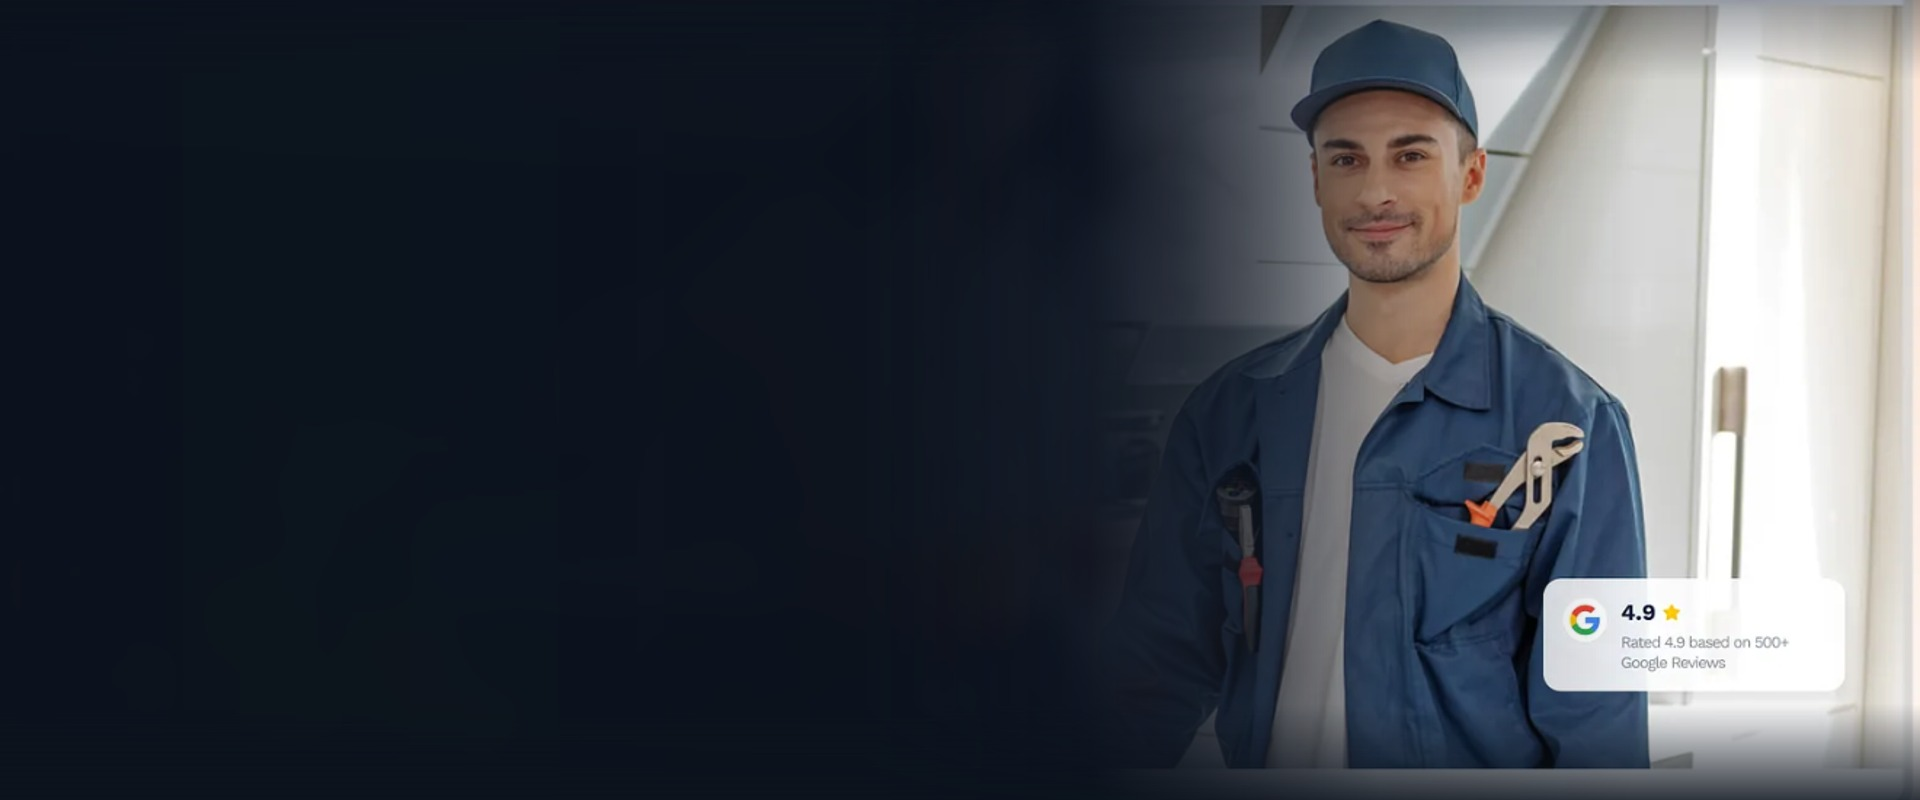
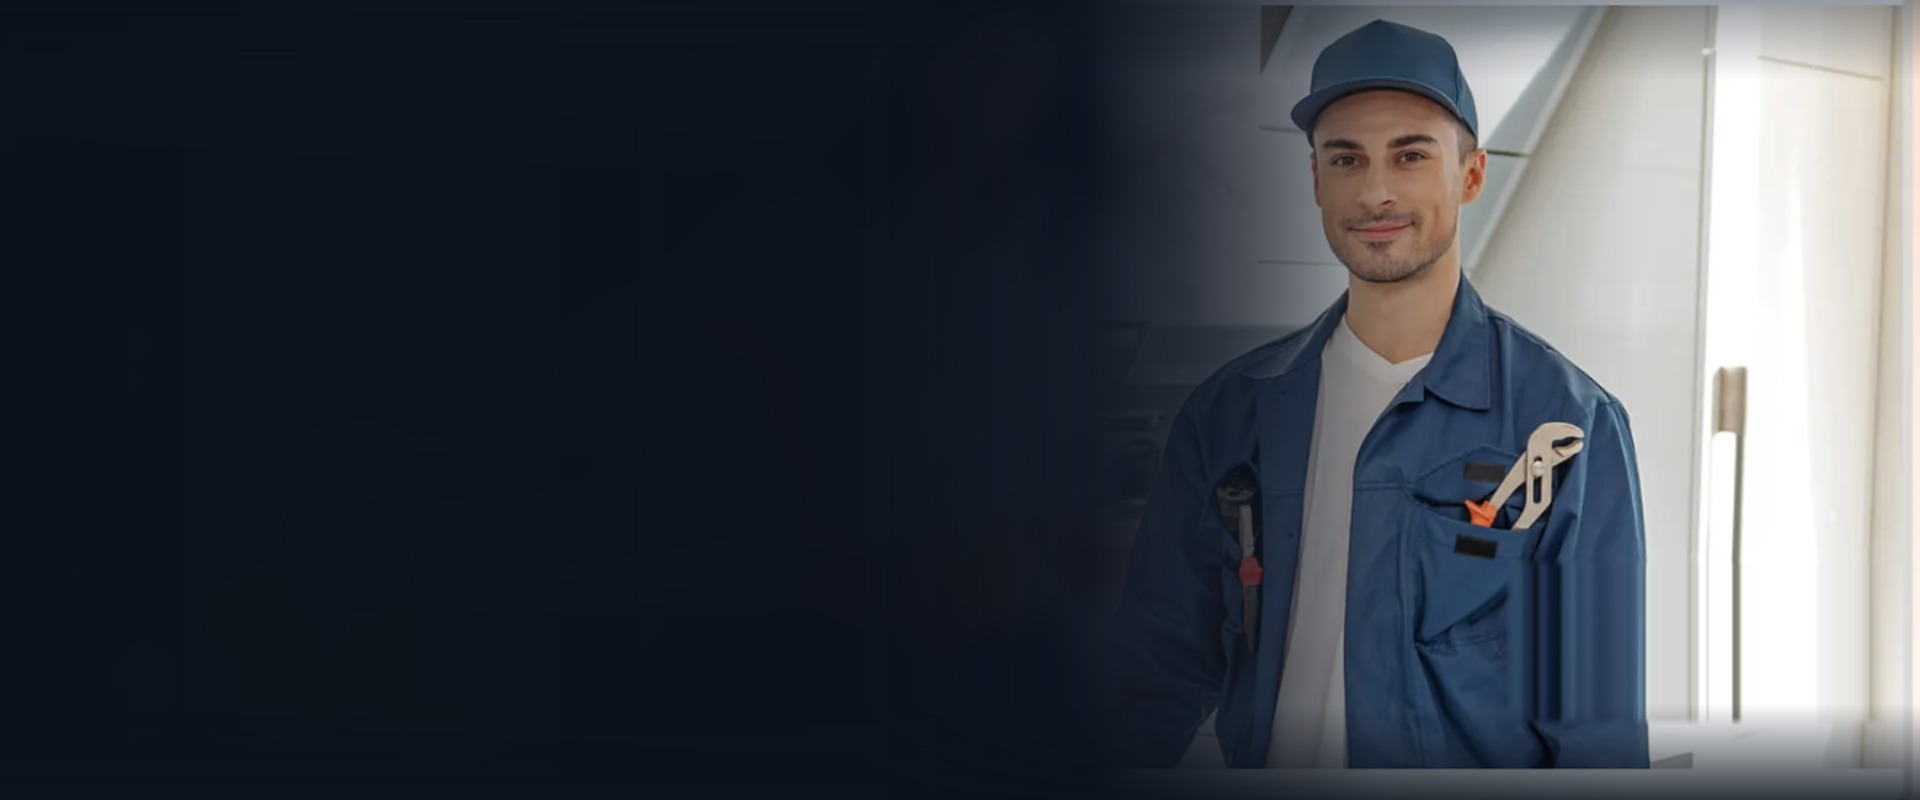
fix: remove baked-in badge from hero background image and use crisp interactive HTML badge

Changed region(s): [[0.7812, 0.6875, 0.9375, 0.9062]]

diff --git a/src/components/hero/HeroSection.tsx b/src/components/hero/HeroSection.tsx
@@ -2,8 +2,31 @@
 
 import React from 'react';
 import Image from 'next/image';
-import { Calendar, Navigation } from 'lucide-react';
+import { Calendar, Navigation, Star } from 'lucide-react';
 import { SITE_CONFIG } from '@/config/site.config';
+
+function GoogleLogo({ className = 'w-6 h-6' }: { className?: string }) {
+  return (
+    <svg className={className} viewBox="0 0 24 24" width="24" height="24">
+      <path
+        fill="#4285F4"
+        d="M22.56 12.25c0-.78-.07-1.53-.2-2.25H12v4.26h5.92c-.26 1.37-1.04 2.53-2.21 3.31v2.77h3.57c2.08-1.92 3.28-4.74 3.28-8.09z"
+      />
+      <path
+        fill="#34A853"
+        d="M12 23c2.97 0 5.46-.98 7.28-2.66l-3.57-2.77c-.98.66-2.23 1.06-3.71 1.06-2.86 0-5.29-1.93-6.16-4.53H2.18v2.84C3.99 20.53 7.7 23 12 23z"
+      />
+      <path
+        fill="#FBBC05"
+        d="M5.84 14.09c-.22-.66-.35-1.36-.35-2.09s.13-1.43.35-2.09V7.06H2.18C1.43 8.55 1 10.22 1 12s.43 3.45 1.18 4.94l2.85-2.22.81-.63z"
+      />
+      <path
+        fill="#EA4335"
+        d="M12 5.38c1.62 0 3.06.56 4.21 1.64l3.15-3.15C17.45 2.09 14.97 1 12 1 7.7 1 3.99 3.47 2.18 7.06l3.66 2.84c.87-2.6 3.3-4.52 6.16-4.52z"
+      />
+    </svg>
+  );
+}
 
 const HERO_SERVICES = [
   'Plumbing',
@@ -24,7 +47,7 @@ export default function HeroSection() {
 
   return (
     <section className="relative min-h-[580px] sm:min-h-[640px] lg:min-h-[680px] flex items-center bg-[#0c131d] overflow-hidden">
-      {/* Full-Bleed Panoramic Background with Smiling Technician in Kitchen */}
+      {/* Full-Bleed Panoramic Background with Clean Smiling Technician in Kitchen */}
       <div className="absolute inset-0 w-full h-full pointer-events-none">
         <Image
           src="/images/hero-panoramic.jpg"
@@ -99,13 +122,30 @@ export default function HeroSection() {
         </div>
       </div>
 
-      {/* Clickable Hotspot Anchor over the Google Review Badge in the background image */}
-      <a
-        href="#reviews"
-        onClick={(e) => handleScrollTo(e, 'reviews')}
-        className="hidden sm:block absolute bottom-4 right-4 sm:bottom-6 sm:right-6 lg:bottom-8 lg:right-10 w-72 h-20 z-20 cursor-pointer rounded-2xl"
-        aria-label="View Google customer reviews"
-      />
+      {/* Single, Crisp, Interactive Google Review Floating Badge (Matching Reference) */}
+      <div className="hidden sm:block absolute bottom-6 right-6 lg:bottom-8 lg:right-10 z-20">
+        <a
+          href="#reviews"
+          onClick={(e) => handleScrollTo(e, 'reviews')}
+          className="group block bg-white/95 hover:bg-white backdrop-blur-md rounded-2xl p-3.5 px-4 shadow-2xl border border-slate-100 hover:border-slate-200 hover:-translate-y-0.5 transition-all duration-200 max-w-[280px]"
+          aria-label="View Google customer reviews"
+        >
+          <div className="flex items-center gap-3">
+            <div className="w-10 h-10 rounded-xl bg-slate-50 border border-slate-200/60 flex items-center justify-center shrink-0 shadow-2xs group-hover:scale-105 transition-transform">
+              <GoogleLogo className="w-6 h-6" />
+            </div>
+            <div className="min-w-0 text-left">
+              <div className="flex items-center gap-1.5 leading-none">
+                <span className="text-base font-extrabold text-slate-950">4.9</span>
+                <Star className="w-4 h-4 fill-amber-400 text-amber-400 -mt-0.5" aria-hidden="true" />
+              </div>
+              <p className="text-[11px] text-slate-600 font-medium leading-tight mt-1 truncate">
+                Rated 4.9 based on 500+ Google Reviews
+              </p>
+            </div>
+          </div>
+        </a>
+      </div>
     </section>
   );
 }
